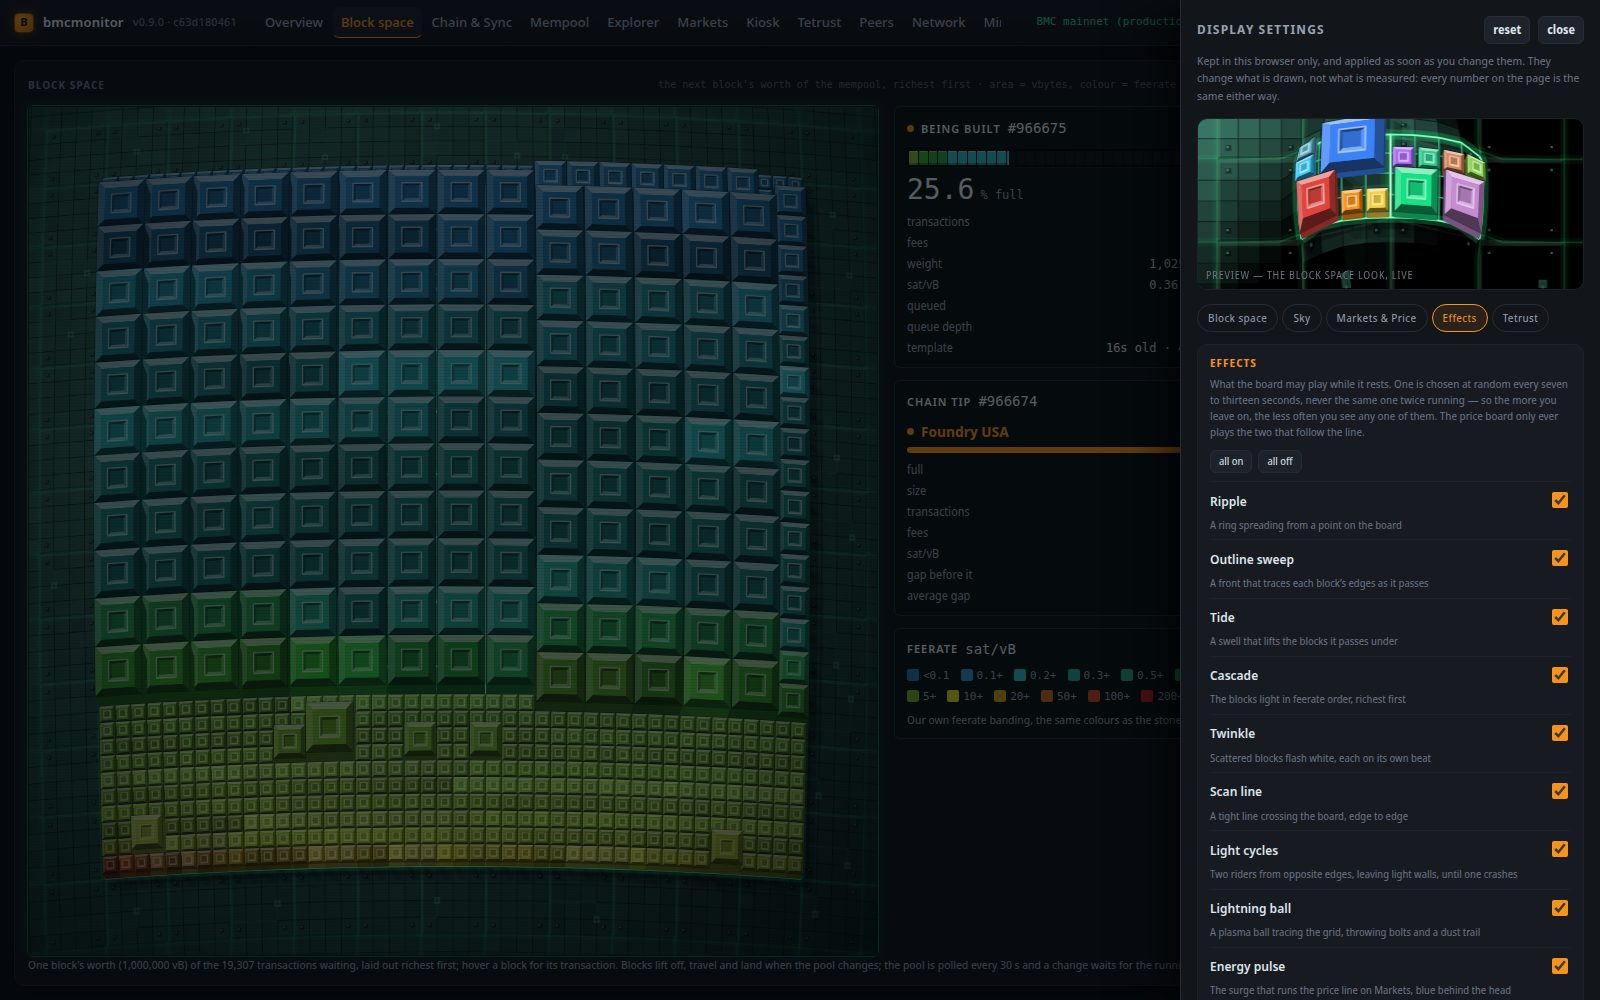
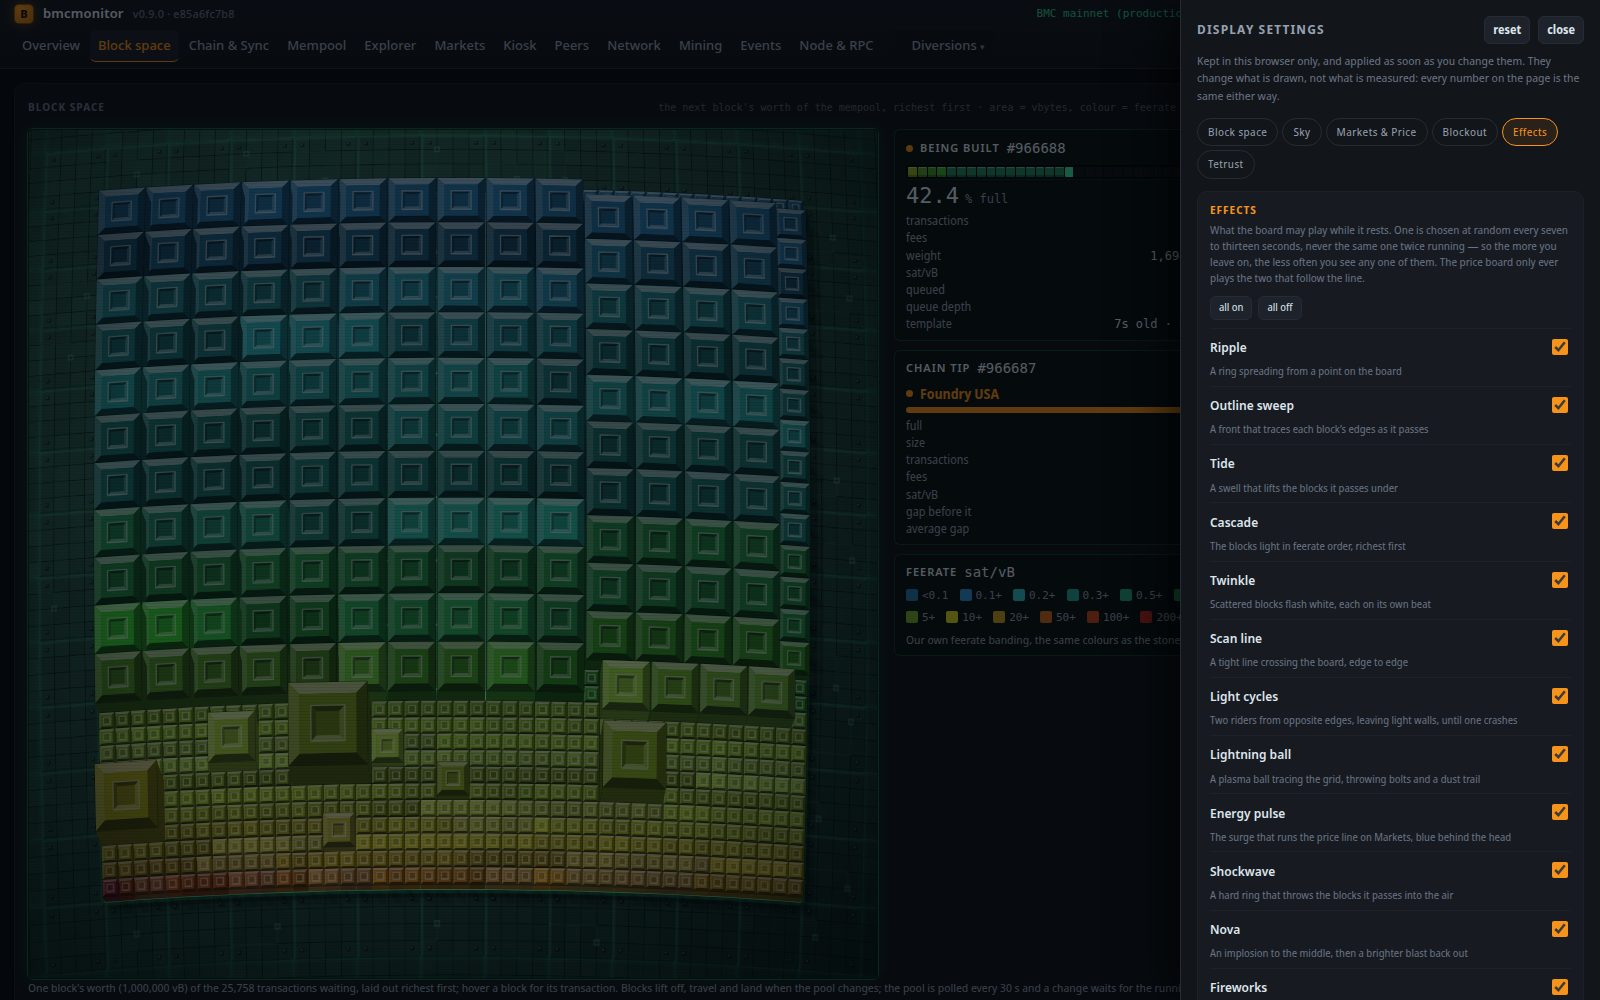
settings: remove the live preview, which could not show what it claimed to
Operator, 2026-09-12: "Get rid of this preview. it's not properly working to reflect the changes."

It could not. The preview drew with spaceOptions and then OVERRODE several of the very settings it
was meant to preview -- `stars: false, galaxy: false, idleFx: false, still: true` and fixed
facetPx/crownPx -- so the sky, the idle effects, the level of detail and the refresh animation
could never appear in it however they were set. It showed the finishes and the lamp and silently
misrepresented the rest, which is worse than showing nothing. Gone: the markup, the canvas, the
tile fixture, the draw function and its two call sites, the three CSS rules, and the two imports
(board3d, spaceOptions) that nothing else in app.js needed.

Docs corrected with it, including two claims in the same sentence that had gone stale on their own:
the tab list did not mention Blockout, and it said Effects AND Tetrust get all-on/all-off -- true
when written, but Tetrust has since gained choice, colour and range rows, so only Effects qualifies
now. Display settings also gains the Blockout subsection it never had, and docs/images/settings.jpg
is recaptured without the preview.

No test referenced the preview, which is its own small verdict on the feature.

Verified: 683/683, and the recaptured panel checked in-page (no toast, no preview canvas, six tabs)
before it was written -- the first attempt caught a "startup failed" toast because I ran the
[…]

diff --git a/public/js/app.js b/public/js/app.js
@@ -8,8 +8,8 @@
 import { lineChart, histogram, scatter, meter, stackedBars, sparkline, paint, resetCanvas, COL } from './charts.js';
 import * as F from './fmt.js';
 import { renderMiningOverview, renderMining, renderBlockSpace, refreshLabel } from './mining.js';
-import { viewerIdle, board3d } from './details3d.js';
-import { loadSettings, setSetting, resetSettings, spaceOptions, PANEL as SETTINGS_PANEL } from './settings.js';
+import { viewerIdle } from './details3d.js';
+import { loadSettings, setSetting, resetSettings, PANEL as SETTINGS_PANEL } from './settings.js';
 import { renderExplorer } from './explorer.js';
 import { renderMarkets } from './markets.js';
 import { renderKiosk } from './kiosk.js';
@@ -1004,30 +1004,6 @@ async function boot() {
       return `<div class="cfgrow"><b><label for="${id}">${r.label}</label></b><span>${ctl}</span><i>${r.hint}</i></div>`;
       }).join('')}</div>`;
     }).join('');
-    drawPreview();
-  };
-  // THE PREVIEW (operator, 2026-09-12: "Slider for brightness, color selection, realtime
-  // preview"): a few blocks across the feerate palette on a small board at the top of the panel,
-  // drawn with the Block space options exactly as the boards read them, and again on every
-  // change -- so a switch shows its effect here before the operator looks for it on a board.
-  const PREVIEW_TILES = [
-    { txid: 'p1', x: 0, y: 0, s: 2, tall: 1, color: '#e0443e' }, { txid: 'p2', x: 2, y: 0, s: 1, tall: 1, color: '#f7931a' },
-    { txid: 'p3', x: 3, y: 0, s: 1, tall: 1, color: '#f5d142' }, { txid: 'p4', x: 4, y: 0, s: 2, tall: 1, color: '#15e084' },
-    { txid: 'p5', x: 0, y: 2, s: 1, tall: 1, color: '#3ec9ff' }, { txid: 'p6', x: 1, y: 2, s: 3, tall: 1, color: '#3b82f6' },
-    { txid: 'p7', x: 4, y: 2, s: 1, tall: 1, color: '#b06bff' }, { txid: 'p8', x: 5, y: 2, s: 1, tall: 1, color: '#2ecc8f' },
-    { txid: 'p9', x: 0, y: 3, s: 1, tall: 1, color: '#5fb0c9' }, { txid: 'p10', x: 6, y: 0, s: 2, tall: 1, color: '#c78bd4' },
-    { txid: 'p11', x: 6, y: 2, s: 1, tall: 1, color: '#d98b5f' }, { txid: 'p12', x: 7, y: 2, s: 1, tall: 1, color: '#8bd450' },
-  ];
-  const drawPreview = () => {
-    const c = document.getElementById('cfgPreview');
-    if (!c) return;
-    const o = spaceOptions(loadSettings());
-    board3d(c, PREVIEW_TILES, {
-      gridW: 8, gridH: 4, ...o,
-      // a still, quiet board: no sky, no idle effects, no flight -- the finishes and the lamp are the point
-      stars: false, galaxy: false, idleFx: false, still: true, transition: { rise: 0, travel: 1, drop: 0 },
-      oblique: { ox: 0.12, oy: 0.3, headroom: 2, flight: 0 }, facetPx: 9, crownPx: 18,
-    });
   };
   const openSettings = (open) => {
     cfgWrap.classList.toggle('hidden', !open);
@@ -1065,7 +1041,6 @@ async function boot() {
     setSetting(loadSettings(), el.dataset.cfg, value);
     const out = cfgBody.querySelector(`[data-val-for="${el.dataset.cfg}"]`);
     if (out) out.textContent = String(value);
-    drawPreview();
     render();          // the boards pick the new options up on their next paint
   });
 

diff --git a/public/css/app.css b/public/css/app.css
@@ -1420,10 +1420,6 @@ body { font-variant-numeric: tabular-nums; }
 .cfg h2 { display: flex; align-items: center; gap: 8px; margin: 2px 0 8px; font-size: 13px; letter-spacing: .09em; text-transform: uppercase; color: var(--fg-dim); }
 .cfg h2 .sp { flex: 1; }
 .cfgnote { margin: 0 0 14px; color: var(--fg-faint); font-size: 11.5px; line-height: 1.5; }
-/* the live preview at the top of the panel (operator: "realtime preview") */
-.cfgpreview { position: relative; margin: 0 0 14px; border: 1px solid var(--line-soft); border-radius: var(--radius); overflow: hidden; background: #020906; }
-.cfgpreview canvas { display: block; width: 100%; height: 170px; }
-.cfgpreview span { position: absolute; left: 8px; bottom: 6px; font-size: 10px; letter-spacing: .08em; text-transform: uppercase; color: var(--fg-faint); }
 .cfgrow input[type="color"] { width: 44px; height: 24px; padding: 0; border: 1px solid var(--line); border-radius: 4px; background: transparent; cursor: pointer; }
 /* the tab strip (operator: "tabbed section panel in setup") */
 .cfgtabs { display: flex; flex-wrap: wrap; gap: 4px; margin: 0 0 12px; }

diff --git a/public/index.html b/public/index.html
@@ -76,7 +76,6 @@
       </h2>
       <p class="cfgnote">Kept in this browser only, and applied as soon as you change them. They
         change what is drawn, not what is measured: every number on the page is the same either way.</p>
-      <div class="cfgpreview"><canvas id="cfgPreview"></canvas><span>preview — the Block space look, live</span></div>
       <div id="cfgBody"></div>
     </section>
   </div>

diff --git a/README.md b/README.md
@@ -16,7 +16,7 @@ read-only toward your node by default.
 | | |
 |---|---|
 | **Block space, in 3D.** The next block's worth of the mempool as a board of glowing tiles: area is vbytes, colour is feerate. Refreshes are choreographed — blocks lift, travel in collision-free lanes and land under gravity — and the board comes alive at rest with **26 idle effects**, from ripples and light cycles to a lightning ball, fireworks, code rain and a demoscene plasma. Two viewer modes: **Simple** (the richest few hundred transactions as cubes) and **Detailed** (every transaction in the block). | ![Block space, Detailed mode](docs/images/block-space-mode2.jpg) |
-| **A board you can tune.** Neon-tube blocks and a metallic sheen, a movable lamp, a spiral galaxy behind the board, and a switch for every one of the 26 effects — in a tabbed settings panel with a live preview. Kept in your browser; they change how things are *drawn*, never what is measured. | ![Neon blocks and the metallic sheen](docs/images/block-space-neon.jpg) |
+| **A board you can tune.** Neon-tube blocks and a metallic sheen, a movable lamp, a spiral galaxy behind the board, and a switch for every one of the 26 effects — in a tabbed settings panel. Kept in your browser; they change how things are *drawn*, never what is measured. | ![Neon blocks and the metallic sheen](docs/images/block-space-neon.jpg) |
 | **An explorer that looks the part.** Search a height, block hash, txid or address. Transaction pages with fee, fee rate and dollar value, feature badges, a flow diagram from inputs to outputs, and links to where every coin came from and went. | ![Explorer transaction](docs/images/explorer-tx.jpg) |
 | **Markets.** Five exchanges' public prices: a 3D candle chart with a neon price line, a precise flat candlestick chart, an exchange table, and a bitcoinity-style order-book depth chart with change bars. Fetched by the server only while someone is looking. | ![Markets](docs/images/markets.jpg) |
 | **Kiosk.** The 3D markets board, a price panel and the block-space board side by side, full screen with one click. | ![Kiosk](docs/images/kiosk.jpg) |

diff --git a/docs/USER-GUIDE.md b/docs/USER-GUIDE.md
@@ -739,10 +739,9 @@ same whatever you choose here.
 
 ![Display settings](images/settings.jpg)
 
-The panel is **tabbed** — Block space, Sky, Markets & Price, Effects, Tetrust — with a **live
-preview** at the top that redraws on every change, so you can see a setting before you go looking
-for it on a board. Tabs that are nothing but switches (Effects, Tetrust) also get **all on** and
-**all off**.
+The panel is **tabbed** — Block space, Sky, Markets & Price, Blockout, Effects and Tetrust. The
+**Effects** tab is nothing but switches, so it also gets **all on** and **all off**; twenty-six of
+them is a lot of clicking otherwise.
 
 ### Block space
 
@@ -794,6 +793,20 @@ candles refresh.
 Your toolbar choices are remembered too: the **exchange** whose candles are drawn and the
 **range** (24 hours, 48 hours or 7 days). Click them on the Markets page or set them here; either
 way the page opens where you left it.
+
+### Blockout
+
+The Breakout court. Four of these — **star field**, **spiral galaxy**, **neon bricks** and **sound
+effects** — are the same switches that sit on the game's own panel, so a change in either place
+shows in both. The rest are here only:
+
+| setting | what it does |
+|---|---|
+| **Galaxy centre** | Where the spiral's nucleus sits on the panel: behind the court, or any corner. |
+| **Neon colour from** / **Neon colour** / **Neon brightness** | The tubes in each brick row's own colour, or all in one colour of your choosing, at the brightness you set. |
+
+What the sky is *made of* — density, brightness, nebulae, dust and the rest — comes from the
+**Sky** tab, which every board shares.
 
 ### Tetrust
 

diff --git a/CHANGELOG.md b/CHANGELOG.md
@@ -40,8 +40,8 @@ All notable changes to this project are documented here. The format follows
   piece will land is drawn instead of a block rather than over one, so the neon finish never
   applied to it and it stayed the shipped blue whatever else was changed; it has its own colour
   now, and `tiles()` takes it as an argument so the rules file still knows nothing of the store.
-- **A tabbed Display settings panel** with a live preview that redraws on every change, and
-  all-on / all-off for tabs that are only switches.
+- **A tabbed Display settings panel**, with all-on / all-off on the Effects tab, whose
+  twenty-six switches are a lot of clicking otherwise.
 - **Markets remembers its toolbar**: the exchange and the range are settings now, so the page
   opens where you left it.
 
